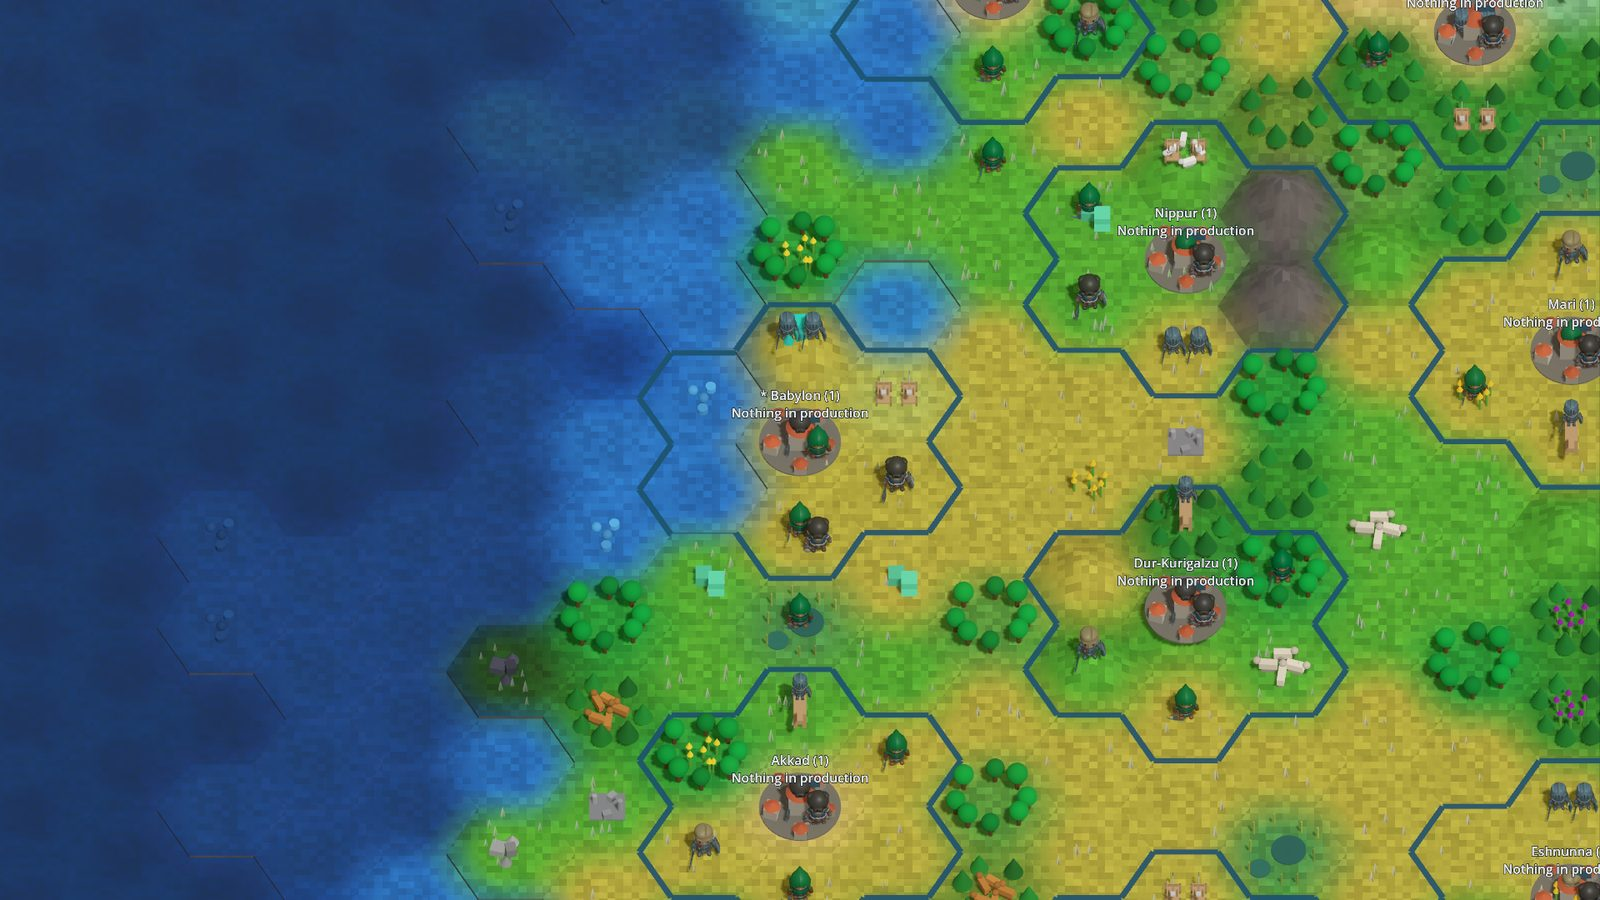
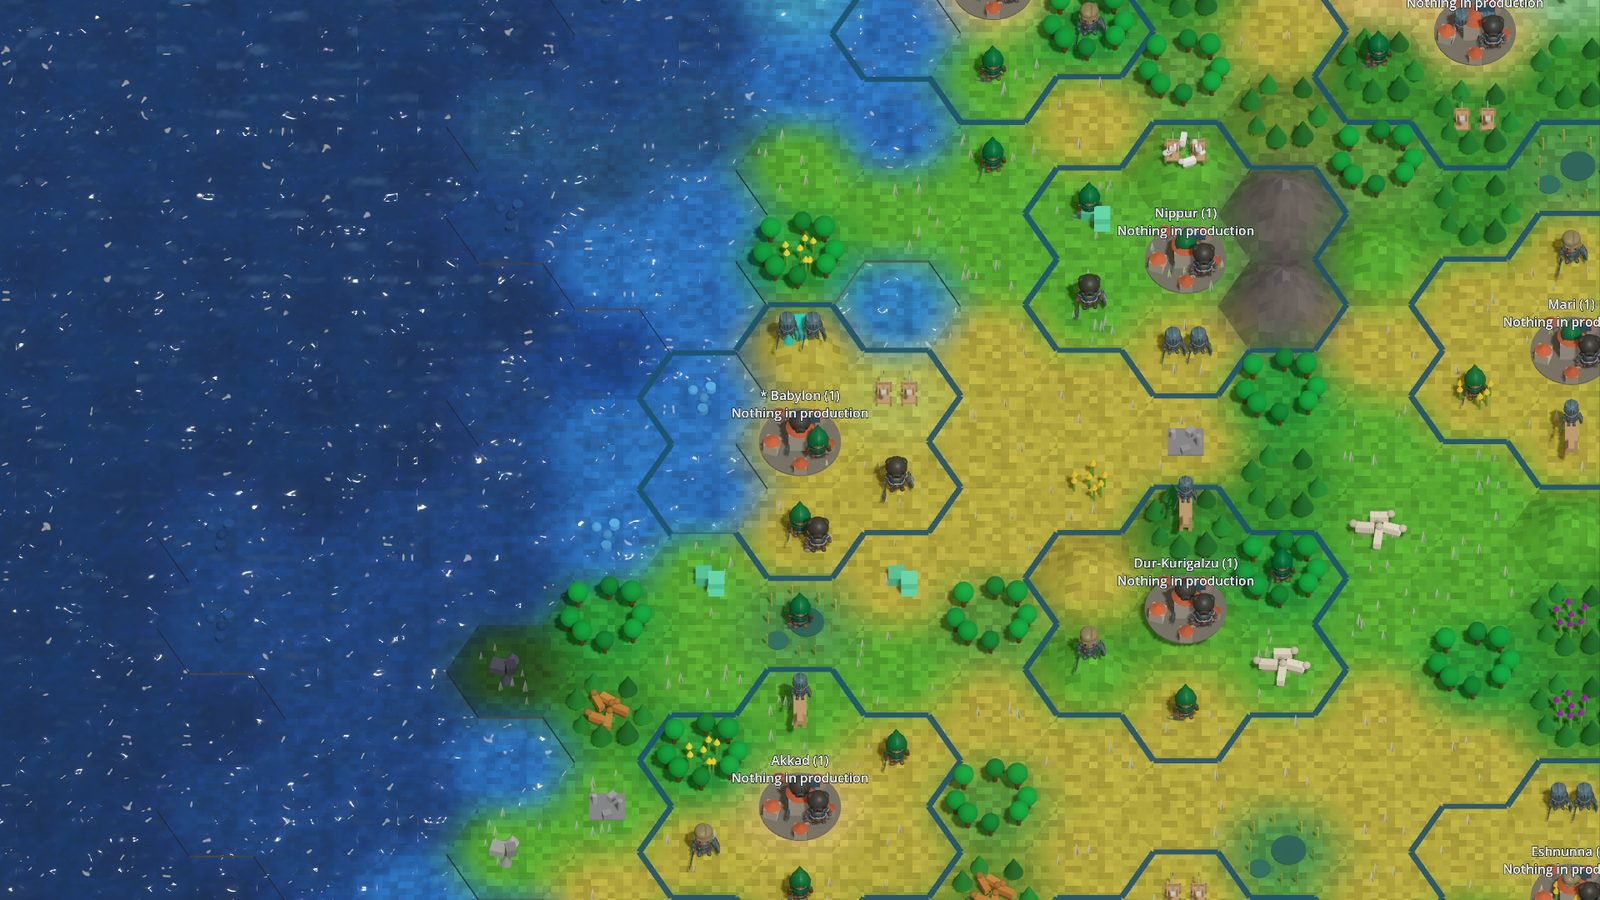
T289: Ultra water ripple and glint tuning, doc images, notes [Claude-T289]

Changed region(s): [[0.375, 0.5911, 0.4062, 0.6222]]

diff --git a/csharp/Unciv.Godot/Assets/MapShaders.cs b/csharp/Unciv.Godot/Assets/MapShaders.cs
@@ -5,10 +5,10 @@ namespace Unciv.GodotClient.Assets;
 
 /// <summary>
 /// C098: the Ultra-only shader for the merged terrain chunks (design/ULTRA-GRAPHICS.md ranks 3 and 4). One spatial shader draws land and water: it reproduces the plain chunk
-/// material (vertex colour times the shared grain texture) and adds, on top, a world-space noise detail and a slope-to-rock blend on land, and an animated normal, a sky fresnel
-/// tint and a sun glint on water. Water is recognised in the fragment stage as an upward-facing surface below <see cref="WaterCeiling"/> (no mesh change, so the Low and High
+/// material (vertex colour times the shared grain texture) and adds, on top, a world-space noise detail and a slope-to-rock blend on land, and an animated ripple normal, a sky fresnel
+/// tint and a sparse virtual sun glint on water. Water is recognised in the fragment stage as an upward-facing surface below <see cref="WaterCeiling"/> (no mesh change, so the Low and High
 /// chunk meshes and their baked colours are untouched). Only <c>GraphicsPreset.ShaderTier</c> 1 and up uses it; Low and High keep the StandardMaterial3D.
-/// Written against the spatial shader language that every renderer supports (compatibility included); never run on a real GPU yet, see ticket T271.
+/// Written against the spatial shader language that every renderer supports (compatibility included); run and tuned on an RTX 5060 Ti Forward+ (T271, T289).
 /// </summary>
 public static class MapShaders
 {

diff --git a/csharp/migration/design/ULTRA-GRAPHICS.md b/csharp/migration/design/ULTRA-GRAPHICS.md
@@ -19,6 +19,7 @@
   - [Cost per effect](#cost-per-effect)
   - [Look, colour calibration and animation](#look-colour-calibration-and-animation)
   - [Real-GPU pictures (T291)](#real-gpu-pictures-t291)
+  - [Water tuning (T289)](#water-tuning-t289)
   - [Conclusions and follow-ups](#conclusions-and-follow-ups)
   - [Far-zoom draw-call reduction (T287)](#far-zoom-draw-call-reduction-t287)
   - [Windows, macOS and Android (UNVERIFIED)](#windows-macos-and-android-unverified)
@@ -202,7 +203,7 @@ Pictures were rendered and viewed for all three levels at five views (the PNGs t
 
 - **Forward+ is much brighter and paler than the compatibility renderer for the same scene and settings** (measured as mean pixel value over the map area, 0-255): compatibility Low 56, High 80 (mid view); Forward+ Low 86, High 108, Ultra with the old provisional constants (0.9 / 0.5) 111. Ultra was about 38% brighter than High, with washed-out blue-grey water. Compatibility Low draws the deep ocean nearly black (the palette the CI goldens were tuned on) and High is neon-saturated; both are today's behaviour and were left alone.
 - **Calibration applied** (`GraphicsModel.Preset(Ultra)`): exposure 0.9 -> 0.6, ambient 0.5 -> 0.3, and a new `Saturation` 1.3 (Environment adjustment, Ultra only; Low and High keep 1.0 so they are untouched). Result, mean pixel value Ultra versus compatibility High: mid 85 vs 80, coast 89 vs 84, close 103 vs 105, overview 73 vs 62 (the overview gap is the near-black compatibility forests). The picture keeps natural, saturated land and blue water. Ultra is therefore matched to High, not to Low: Low is deliberately the old dark look, and High/Ultra are the "film look" levels.
-- **Ultra water/terrain shader (C098)**: compiles and draws on both NVIDIA (Vulkan) and Intel (Vulkan); no artefacts on shorelines, hills, or under SSAO/SSR (viewed at full resolution at `coast` and `coastlow`). The water animates (frame-to-frame mean difference 0.1-0.5 per channel between two shots 40 frames apart, zero at High) and shows a soft depth tint; the ripples and fresnel are subtle at the game's steep camera angles and there is no visible sun glint (the sun is at -60 degrees). It reads as "clean, slightly lit water", not as a strong effect; judged acceptable, a stronger ripple is a tuning follow-up (T289). Not verified: shoreline foam, vegetation wind (not implemented).
+- **Ultra water/terrain shader (C098)**: compiles and draws on both NVIDIA (Vulkan) and Intel (Vulkan); no artefacts on shorelines, hills, or under SSAO/SSR (viewed at full resolution at `coast` and `coastlow`). The water animates (frame-to-frame mean difference 0.1-0.5 per channel between two shots 40 frames apart, zero at High) and shows a soft depth tint. T271 found the ripples subtle and no glint (the real sun is behind the camera at -60 degrees pitch, so a mirror reflection can never reach it). Not verified: shoreline foam, vegetation wind (not implemented).
 - **SSAO / SSR on Forward+**: SSAO grounds the tree and figure props (contact darkening) with no halos; SSR shows nothing visible on the shader water at the usual tilt (the cost is small, +0.2-0.5 ms). No interaction artefacts with the shader's animated normals were seen.
 - **C085 LOD and C086 combat effects**: the `unit-visuals` (including `far`) and `combat-presentation` scenarios were run on the RTX 5060 Ti compatibility renderer against the committed llvmpipe goldens with the cross-renderer tolerance: all 17 + 5 captures match with a mean difference of 0.0001-0.0004 (hash distance 0-2), i.e. the CI goldens are what a real GPU draws; the pictures were viewed (one figure per formation at far zoom, damage number, shot flash, bombard burst, death marker all present). On Forward+ the same scenarios differ from the goldens (mean 0.03-0.14), the known renderer colour shift. The scenarios pin the Low level, so C085/C086 under High and Ultra (shadows, glow on the effect sprites) were not exercised.
 
@@ -220,11 +221,22 @@ Documentation images (not goldens; nothing reads them in CI) rendered on the RTX
 |---|---|---|
 | ![Ultra coast](images/ultra/ultra-coast.jpg) | ![Ultra water close-up](images/ultra/ultra-water-closeup.jpg) | ![Ultra overview](images/ultra/ultra-overview.jpg) |
 
+### Water tuning (T289)
+
+Tuned on the RTX 5060 Ti (Forward+, 1920x1080) from stills at tilts 30, 55 and 75 degrees and sequences of shots 0.5 s apart (`UNCIV_BENCH_SEQ`, views `coast30`/`coast55`/`coast75` in gpu-bench). Ultra water only; Low, High and the land branch are unchanged.
+
+- Ripple: the normal now comes from the slope of two height-noise layers (value noise with an analytic gradient and a quintic fade, the second layer rotated against the first), amplitude raised from about 0.17 to 0.8 of the noise slope. Before, the raw noise values were used as slopes, which gave a blotchy low-frequency tint and no ripple. Now the ripple reads at 30 degrees and is a soft mottle at the default 55.
+- Glint: a real sun glint is impossible with this light (sun behind the camera), so a fixed virtual glint direction lights the ripple crests facing it as warm sparse sparkles (emission 0.3, from the low-frequency layer so they are blobs, not pixel noise). Tried and rejected: glint from both layers (snow-like specks), strength 0.55 with a wide threshold (white blotches that read as foam).
+- Animation: shots 0.5 s apart differ by a mean of 4-7 per channel over the water (30 degree tilt; 4-4.5 at 55) and the sparkles drift and twinkle; no tiling or popping seen. The remaining rectangular/triangular patches in the water are the baked per-triangle chunk colours (also at Low and High), not the shader.
+- Brightness: the glint adds under 3 percent of water pixels and the base colour is unchanged, so the T271 colour calibration against High still holds.
+- Cost (gpu-bench ablation, Low versus Low plus the shader, Forward+, mean [min-max] of 3 runs; GPU time, which is stable under load): the shader added +0.02 / +0.03 / +0.06 ms (mid / coast / overview) before and adds +0.04 / +0.03 / +0.03 ms after, the same within spread (e.g. mid GPU 0.68 [0.67-0.69] before, 0.71 [0.70-0.71] after). CPU time is not usable: the machine was at load 45-100 with other agents building, and CPU ms varied 2.5-6 within a configuration.
+- Not verified: Intel iGPU and the compatibility renderer pictures of the new look.
+
 ### Conclusions and follow-ups
 
 1. The C097 defaults stand: Low default, High and Ultra opt-in; no level is too slow on a discrete GPU.
 2. Ultra's colour constants are calibrated (above); the tests pin the calibration direction, not the exact numbers.
-3. Follow-ups filed in the backlog: T287 far-zoom draw-call reduction (13.3k draw calls at the maximum zoom-out, the CPU bound on every GPU); T288 an integrated-GPU note for Ultra; T289 stronger water ripples/glint tuning; T290 real-device passes on Windows, macOS and a mid-range Android phone.
+3. Follow-ups filed in the backlog: T287 far-zoom draw-call reduction (13.3k draw calls at the maximum zoom-out, the CPU bound on every GPU); T288 an integrated-GPU note for Ultra; T289 (done) water ripple and glint tuning, see "Water tuning (T289)" below; T290 real-device passes on Windows, macOS and a mid-range Android phone.
 
 ### Far-zoom draw-call reduction (T287)
 

diff --git a/csharp/migration/design/images/ultra/README.md b/csharp/migration/design/images/ultra/README.md
@@ -8,7 +8,7 @@ These are **documentation images, not goldens**. They were rendered on a real GP
 | Driver | NVIDIA proprietary 615.71.09, Vulkan 1.4.351 |
 | Renderer | Godot 4.7.2 Forward+ (Vulkan), `--rendering-method forward_plus --rendering-driver vulkan --gpu-index 0`, vsync off |
 | Resolution | rendered at 1920x1080; the single views are downscaled to 1600x900 JPEG, the comparison sheet is 3 x 640x360 tiles |
-| Date | 2026-10-29 |
+| Date | 2026-10-29 (Ultra water re-rendered after T289) |
 | Scene | real `GameScreen` over the T271 fixture: generated Large Pangaea (2838 tiles, 11 civs plus 4 city-states, 24 cities, 84 units, map explored) |
 | Levels | `GraphicsModel.Preset` Low / High / Ultra with the T271 calibration (Ultra exposure 0.6, ambient 0.3, saturation 1.3) |
 | Clean mode | `UNCIV_BENCH_CLEAN=1`: HUD, minimap, unit panel and yield chips hidden so the pictures show the map and its lighting only |
@@ -25,7 +25,7 @@ Views: `mid` is the default play zoom (14), `coast` zoom 9 over a shoreline, `co
 | `compare-low-high-ultra.jpg` | 3 x 3 sheet: columns Low / High / Ultra, rows mid / coast / overview |
 | `low-mid.jpg`, `high-mid.jpg`, `ultra-mid.jpg` | the default play view at each level |
 | `ultra-coast.jpg` | Ultra over a shoreline |
-| `ultra-water-closeup.jpg` | Ultra water at a low tilt (the C098 shader: depth tint and a faint ripple; subtle by design, see T289) |
+| `ultra-water-closeup.jpg` | Ultra water at a low tilt (the C098 shader: depth tint, a visible ripple and sparse glint sparkles, T289) |
 | `ultra-overview.jpg` | Ultra with the whole Large map in view |
 
-Not shown: Intel iGPU, the compatibility renderer, Windows, macOS, Android. Ultra's water animation cannot be seen in a still.
+Not shown: Intel iGPU, the compatibility renderer, Windows, macOS, Android. Ultra's water animation cannot be seen in a still (the ripple and glint were tuned on 0.5 s frame sequences, see ULTRA-GRAPHICS.md T289).
